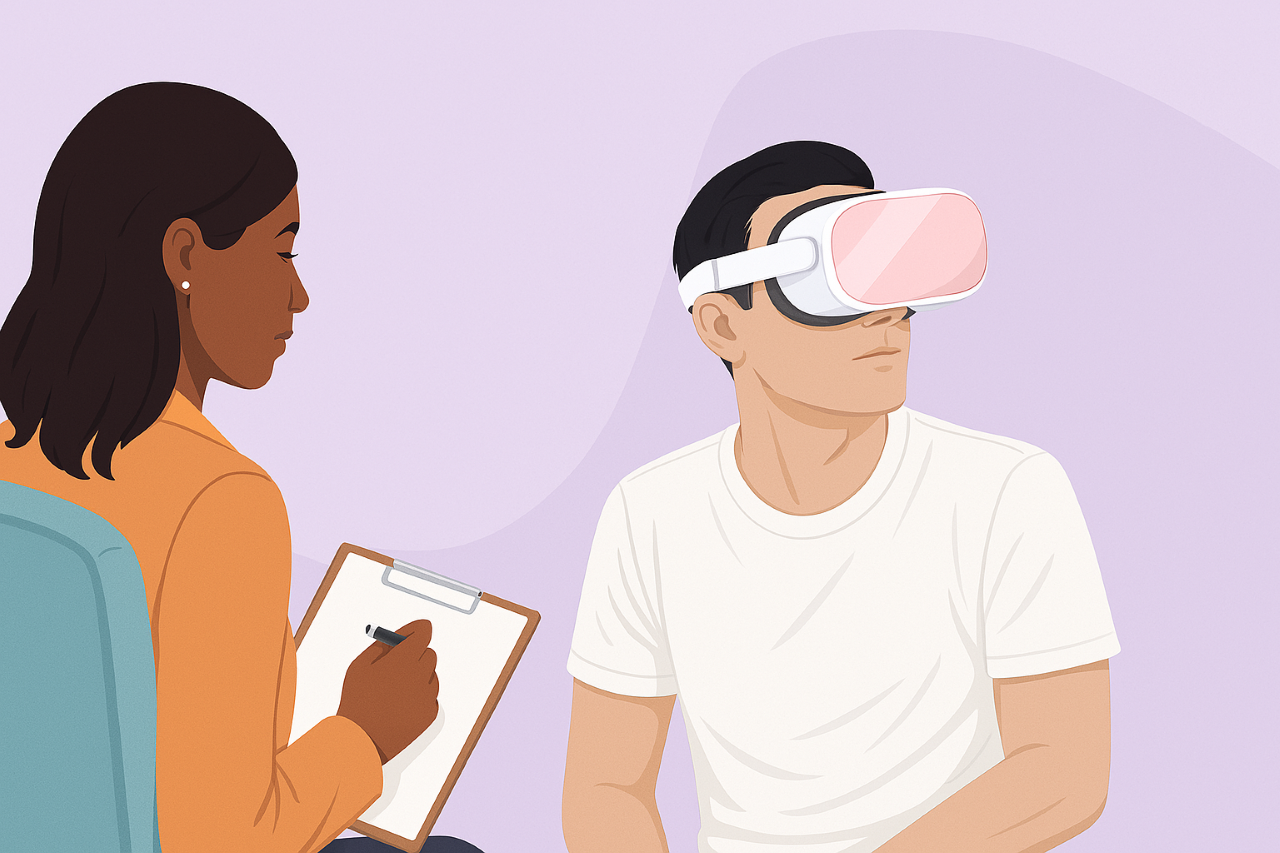
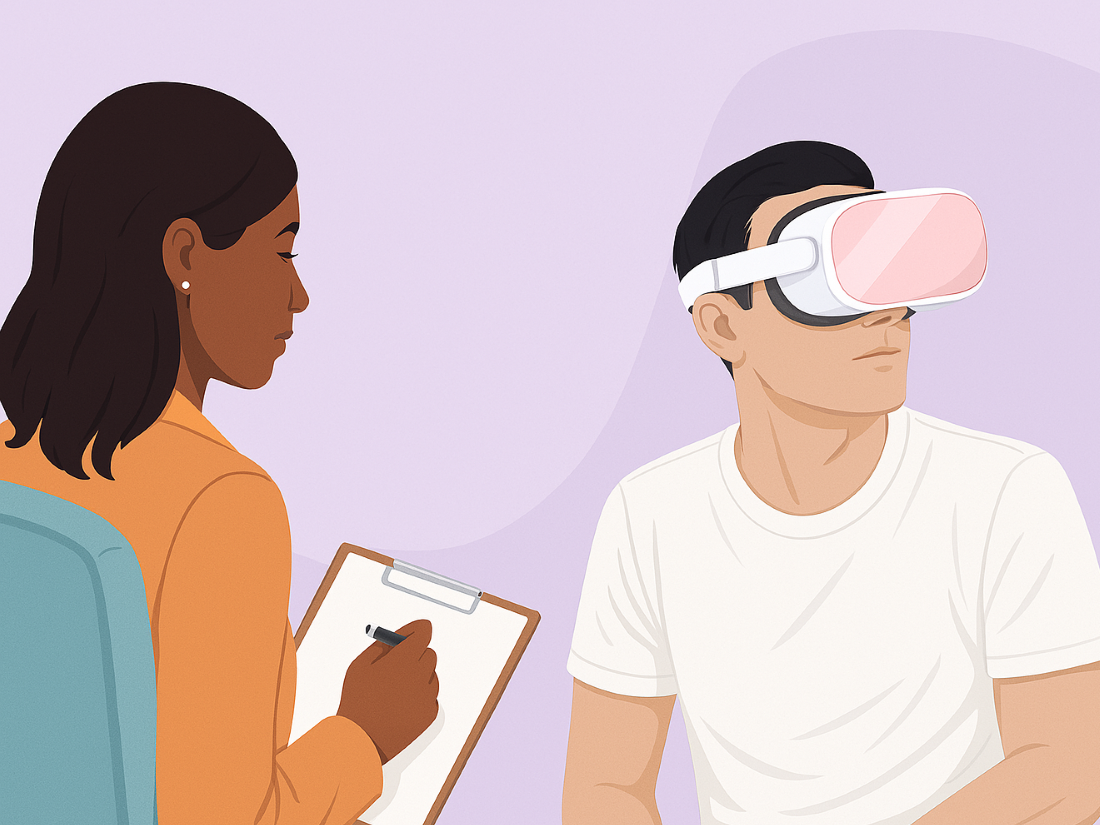
updated projects page to be responsive

diff --git a/sutd-projects.html b/sutd-projects.html
@@ -12,39 +12,32 @@ In this page, you will find a compilation of selected group projects I have work
 I have written short blog posts for these projects, where I briefly share about my experiences, contributions and what I have learnt through these projects. The projects are listed below (in reverse chronological order):
 </div>
 
-
 {% assign publications = site.publications | sort: "order" %}
 
 <div class="container">
   {% for pub in publications %}
-    <div class="pubitem d-flex align-items-start mb-4">
-    
-      <div class="pubteaser" style ="margin-right: 15px">
+    <div class="row mb-4">
+
+      <div class="col-md-4 mb-3 mb-md-0">
+      <!-- <div class="pubteaser" style ="margin-right: 15px"> -->
       <a href="{{pub.url}}">
-        <img src="/assets/img/{{ pub.slug }}_small.png" style="width: 250px; min-width: 250px; max-width: 250px; border: 1px solid grey;"alt="{{pub.slug}} publication teaser"/>
+        <img src="/assets/img/{{ pub.slug }}_small.png" class="img-fluid" style ="width: 100%; aspect-ratio: 4 / 3; object-fit:cover; border: 1px solid grey;" alt="{{pub.slug}} publication teaser"/>
       </a>
-    </div>
+      </div>
 
-  <div class="pubdetails">
-    <div class="pubtitle h5 fw-bold"> 
-      {{ pub.title }}
-    </div>
+      <div class="col-md-8">
+        <div class="pubtitle h5 fw-bold">{{ pub.title }}</div>
+        <div class="pubinfo small text-muted mb-2">{{ pub.subject }}, {{ pub.year}}</div>
+        <div class="pubdesc">
+          <div class="pubinfo small text-muted mb-2">{{ pub.description }}</div>
+      </div>
 
-    <div class="pubinfo small text-muted mb-2">
-      {{ pub.subject }}, {{ pub.year}}
-    </div>
-    
-  <div class="pubdesc">
-    <div class="pubinfo small text-muted mb-2">
-    {{ pub.description }}
-    </div>
-  </div>
+      <div class="publinks">
+          <a href="/projects/{{ pub.slug}}.pdf"><i class="far fa-file-pdf"></i> PDF</a>&nbsp;&nbsp;
+          <a href="{{pub.url}}"><i class="fas fa-arrow-right"></i> Project Page</a>
+      </div>
 
-    <div class="publinks">
-      <a href="/projects/{{ pub.slug}}.pdf"><i class="far fa-file-pdf"></i> PDF</a>&nbsp;&nbsp;
-      <a href="{{pub.url}}"><i class="fas fa-arrow-right"></i> Project Page</a>
     </div>
-  </div>
-
 </div>
+
   {% endfor %}
